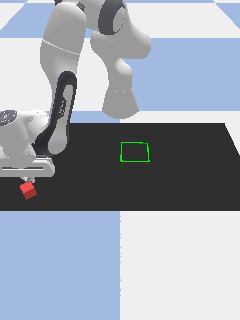
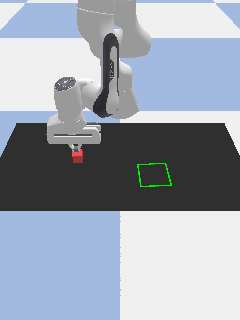
Aug 7, 2025, 11:05 AM

diff --git a/Gripper_Robot_Sim/test_GripperArmSimRobot4.py b/Gripper_Robot_Sim/test_GripperArmSimRobot4.py
@@ -18,14 +18,15 @@ done = False
 step = 0
 
 trajectory = {}
+z_height = env.effector_height 
 
 block_pos = obs['block_translation']
 target_pos = obs['target_translation']
 actions = [
-    block_pos,
-    target_pos
+    np.r_[block_pos[:2], env.effector_height],  
+    np.r_[target_pos[:2], env.effector_height],  
 ]
-# dataset = 
+
 
 for i, action in enumerate(actions):
     # action = env.action_space.sample()  # random action
